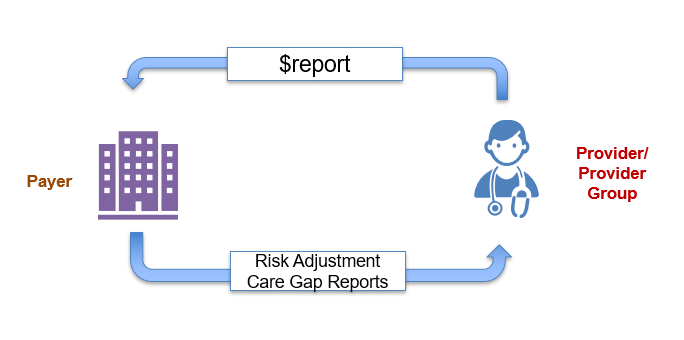
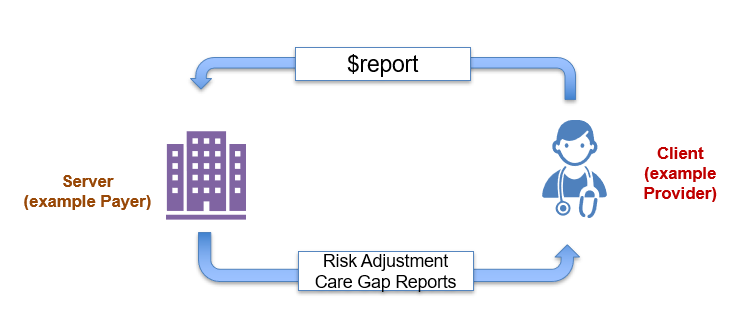
Updates to Guidance pagecontent/guidance.md

Changed region(s): [[0.0307, 0.3604, 0.7982, 0.9009], [0.1842, 0.1201, 0.7982, 0.3303], [0.6754, 0.3303, 0.9825, 0.6607]]

diff --git a/input/pagecontent/guidance.md b/input/pagecontent/guidance.md
@@ -6,25 +6,33 @@
 
 #### Introduction
 
-Risk Adjustment is a common tool used in value based care to insure that patients are receiving care around all their significant health impacting issues.  It also serves as a tool to insure payers are reimbursed appropriately for the care they are providing in a risk based contract.  While the payer may have information that a potential risk adjustment may exist, the provider must confirm the patient's diagnosis on a routine basis.  This implementation guide will define a report that all payers can use to communicate the potential for a risk adjustment(s) on specific patients that may need to be addressed.
+Without the use of this FHIR Implementation Guide, practitioners likely receive Risk Adjustment Coding Gaps information in many ways.  The intent of the Guidance in this Implementation Guide is to unify how payers create these reports. Standardizing the reporting structure should lessen the burden on the practitioners in processing the reports so they can more easily address the patient's care needs.  This structure also supports the payer sharing information that they have but the practitioner may not such as data from other practitioner's claims, lab results, filled prescriptions, etc.  
+
+While this scenario was identified as the most frequent use case, we recognize there are many other actors that interact as the creator of a Risk Adjustment Coding Gap Report and the receiver of those reports.  To avoid confusion in this implementation Guide, we will use the term server to refer to the creator of the report and client to refer to the requester of the report.
+
+This implementation guide will define a report that clients can request and can be used to address risk adjustment category(ies) on one or more specific patients.
 
 #### Preconditions and Assumptions
-- Payer and Provider have established a contract for medical services.
-- A risk adjustment model has been defined.
-- The payer has determined the risk codes and status based on the data they have and systems they used. This Implementation Guide DOES NOT define how a payer determines the Risk Adjustment codes shared on this report.
-- It is the responsibility of the payer to ensure that the data used in the report is present in a structured, retrievable form.
+- A contract for medical services exists between the server and the client requesting the report.
+- A risk adjustment model(s) has been defined.
+- The server organization has determined the risk codes and status based on the data they have and systems they use. This Implementation Guide DOES NOT define how a server determines the Risk Adjustment codes shared on this report.
+- The server and the client have agreed upon a process to identify specific patient(s) and exchange the Patient Resource's logical id on the server.
+- It is the responsibility of the server to ensure that the data used in the report is present in a structured, retrievable form.
 -  Although the exact mechanisms for securing these exchanges are not specified as part of this implementation guide:
-
     -  Exchanges are limited to mutually agreed upon (i.e., between the Producer and Consumer) patients list or population.
-
     -  Systems should use standard authentication and authorization approaches.  The [SMART App Launch] and [SMART backend services] authentication/authorization approach are recommended models.
- - Payer and provider have agreed upon a process to identify specific patient(s).
+
+### Risk Adjustment Reporting workflow
+
+The two actors in the Risk Adjustment Reporting workflow are the server which is who will be creating the report(such as the payer and the client which is the entity requesting the report (frequently the practitioner).  They server will receives the [$report] request from the client.  The server will then return a bundle that contains 1 to many Risk Adjustment Coding Gap Reports. If there are no Risk Adjustment Reports for the subject(s) submitted, an OperationOutcome will be returned.
+
+{% include img-portrait.html img="risk-adjustment-gaps-workflow.png" caption = "Figure 3-1 Risk Adjustment Reporting Workflow" %}
 
 
 ### Risk Adjustment Coding Gap Reports
 The Risk Adjustment Coding Gap Report is a profile of the FHIR MeasureReport resource.  It can be generated by an operation defined in this Implementation Guide, [$report].
 
-The operation, [$report], which allows return of a FHIR bundle based on the input parameters.  The parameters required are the start and end dates of the clinical evaluation period (link to glossary) and a subject.  The subject can be a single patient id as specified on the payer's system or a group of Patients (as specified in the [Patient Group Profile])
+The operation, [$report], which allows return of a FHIR bundle based on the input parameters.  The parameters required are the start and end dates of the [Clinical Evaluation Period] and a subject.  The subject can be a single patient id as specified on the server's system or a group of Patients (as specified in the [Patient Group Profile])
 
 The operation will return a bundle which contains one or more Risk Adjustment Coding Gap Report.  This report is a profile on a FHIR MeasureReport.  Each Risk Adjustment Coding Gap Report is for a single patient and a single Risk Adjustment Model.  This profile allows for communication of additional information that is not in the base MeasureReport resource.  This includes:
 - the pertinent Risk Adjustment code(s) such as an HCC
@@ -34,18 +42,12 @@ The operation will return a bundle which contains one or more Risk Adjustment Co
 - the evidence status dates
 - and the Clinical Data Collection Deadline
 
-Included with the Risk Adjustment Coding Gap Report is the ability to share the data the payer has on file as Supporting Evidence for the Risk Adjustment code on the report.  This is accomplished via the evaluatedResource element. The Resources specified here can include any of the US Core Resources and are expected to be things like encounters, lab results, medications, etc.  An extension (extension-groupReference) has been added to this element and  will indicate which Risk Adjustment Code(s) that a a specific Resource supports.  All Resources referenced by the evaluatedResource element SHALL be returned in the [$report] Bundle
+Included with the Risk Adjustment Coding Gap Report is the ability to share the data the server has on file as Supporting Evidence for the Risk Adjustment code on the report.  This is accomplished via the evaluatedResource element. The Resources specified here can include any of the US Core Resources and are expected to be things like encounters, lab results, medications, etc.  An extension (extension-groupReference) has been added to this element and  will indicate which Risk Adjustment Code(s) that a a specific Resource supports.  All Resources referenced by the evaluatedResource element SHALL be returned in the [$report] Bundle
 
 Multiple reports can be generated for a single patient if more than one Risk Adjustment Model applies.  Also if a group of patients are specified as an input to the operation, one Risk Adjustment Coding Gap Report will be returned for each patient for each Risk Adjustment Model that applies.  For example, if you submit a Patient Group as input to the [$report] and three patients are in the group where two Risk Adjustment Model applies to all three and all three have Risk Adjustment Codes that apply (1-many), you will get back six Risk Adjustment Coding Gap Reports.
 
 The	[Risk Adjustment Model Measure Profile] is used in the MeasureReport.measure.  The Measure Resource profiled here allows specification of a specific Risk Model in the Measure.identifier, the version Measure.version as well as the name in Measure.name and title, Measure.title.
 
-
-### Risk Adjustment Reporting workflow
-
-The two actors in the Risk Adjustment Reporting workflow are the payer and the provider.  They payer will have a server that receives the [$report] request from the payer.  The payer will then return a bundle that contains 1 to many Risk Adjustment Coding Gap Reports. If there are no Risk Adjustment Reports for the subject(s) submitted, an OperationOutcome will be returned.
-
-{% include img-portrait.html img="risk-adjustment-gaps-workflow.png" caption = "Figure 3-1 Risk Adjustment Reporting Workflow" %}
 
 ### Default Profiles
 
@@ -59,13 +61,11 @@ The following resources are used in the Gaps in Care Reporting Scenario:
 
 ### Risk Adjustment Coding Gaps Reporting
 
-Without the use of this FHIR Implementation Guide, providers likely receive Risk Adjustment Coding Gaps information in many ways.  The intent of the Guidance in this Implementation Guide is to unify how payers create these reports so there is less burden on the providers in addressing perceived gaps.  This structure also supports the payer sharing information that they have but the provider may not.
-
-Below is an example of how a provider might receive a Risk Adjustment Coding Gap Report today.  This is for Clinical Evaluation Period January 1st to December 31st of 2021.  The report was run on May 1st and shows 3 Hierarchical Condition Codes based on CMS HCC v24 risk model.  The first HCC was confirmed by a diagnosis on a claim from April 1, 2021. The second is a historic diagnosis of obesity from 2020 that has not been confirmed in 2021.  The last HCC is suspected because of lab results they payer has from December of 2020.
+Below is an example of how a requester might receive a Risk Adjustment Coding Gap Report today.  This is for Clinical Evaluation Period January 1st to December 31st of 2021.  The report was run on May 1st and shows 3 Hierarchical Condition Codes based on CMS HCC v24 risk model.  The first HCC was confirmed by a diagnosis on a claim from April 1, 2021. The second is a historic diagnosis of obesity from 2020 that has not been confirmed in 2021.  The last HCC is suspected because of lab results they server has from December of 2020.
 
 {% include img-portrait.html img="report-risk-adjustment.png" caption = "Figure 3-2 Risk Adjustment Coding Gap Report (non-FHIR)" %}
 
-Figure 3-3 provides a graphical view of how these resources are related to the report above.  The main resource is the [Risk Adjustment Coding Gap Report Profile].  This profile first references a [Risk Adjustment Model Measure Profile] which is how we indicate which risk model the report is based on.  The Patient(US Core Patient) as well as the Payer(US Core Organization) who generated the Risk Adjustment Coding Gap Report are referenced.  
+Figure 3-3 provides a graphical view of how these resources are related to the report above.  The main resource is the [Risk Adjustment Coding Gap Report Profile].  This profile first references a [Risk Adjustment Model Measure Profile] which is how we indicate which risk model the report is based on.  The Patient(US Core Patient) as well as the Organization(US Core Organization) that generated the Risk Adjustment Coding Gap Report are referenced.  
 
 Each Hierarchical Condition Code is represented by a Group within the report.  You will notice that each Group has supporting evidence of the Encounter.  Additionally, you will see resources on the right of the report that support the specific HCC code.  
 
@@ -80,21 +80,19 @@ The last group contains a suspected HCC code of 022.  The supporting evidence th
 
 ### Requesting Risk Adjustment Coding Gap reports
 
-To facilitate a provider requesting Risk Adjustment Coding Gap reports, an operation ([$report]) has been defined in this Implementation Guide.  The input parameters are a from/to date to align with the clinical evaluation period and a subject.  The subject can reference a Patient.id(/Patient/id123) or a reference to a Risk Adjustment [Patient Group Profile](Group/Gr345) as defined in this IG.  All three parameters are required.  The patient resource returned with the report must conform to the US Core Patient Profile.  Note that the reference is to the Patient logical id (Patient.id) on the Payer's server.  As noted above, it is a pre-assumption that getting the logical id for the patient has been done using a method agreed upon between the payer and provider.
+To facilitate a client requesting Risk Adjustment Coding Gap Reports, an operation ([$report]) has been defined in this Implementation Guide.  The input parameters are a from/to date to align with the clinical evaluation period and a subject.  The subject can reference a Patient.id(/Patient/id123) or a reference to a Risk Adjustment [Patient Group Profile](Group/Gr345) as defined in this IG.  All three parameters are required.  The patient resource returned with the report must conform to the US Core Patient Profile.  Note that the reference is to the Patient logical id (Patient.id) on the server.  As noted above, it is a pre-assumption that getting the logical id for the patient has been done using a method agreed upon between the organization acting as the server and organization acting as the client.
 
-The operation will return a bundle of they type collection which will include 1 or more Risk Adjustment Coding Gap Reports and all referenced resources.  For example, if a single patient has 2 Risk Adjustment Models that pertain to them, the bundle will contain two MeasureReport resources ([Risk Adjustment Coding Gap Report Profile]) and any other resources referenced by the two MeasureReport Resources, such as Patient, Organization (that generated the report, Conditions, Observations, Medications, Measure, etc.
+The operation will return a bundle of the bundle.type "collection" which will include 1 or more Risk Adjustment Coding Gap Reports and all referenced resources.  For example, if a single patient has 2 Risk Adjustment Models that pertain to them, the bundle will contain two MeasureReport resources ([Risk Adjustment Coding Gap Report Profile]) and any other resources referenced by the two MeasureReport Resources, such as Patient, Organization (that generated the report), Conditions, Observations, Medications, Measure, etc.
 
 {% include img-portrait.html img="risk-adjustment-coding-gap-report-single-patient.png" caption = "Figure 3-4 Risk Adjustment Reporting Workflow for a Single Patient" %}
 
-Example needed
-
 #### Construction of the Risk Adjustment Coding Gap Reports
 
-The Risk Adjustment Coding Gaps Report is built on a FHIR MeasureReport Resource.  This profile adds several new elements/extensions that apply only to Risk Adjustment Code Gap reporting.  The first, extension-clinicalDataCollectionDeadline is added to specify to the provider the deadline, last date, that a provider must submit data to the payer.  In the reporter element, an extension was added to allow for the reporter to be a group, extension-reporterGroup.
+The Risk Adjustment Coding Gaps Report is built on a FHIR MeasureReport Resource.  This profile adds several new elements/extensions that apply only to Risk Adjustment Code Gap reporting.  The first, extension-clinicalDataCollectionDeadline is added to specify to the report receiver/client the deadline, last date, that a client or the organization they represent must submit data to the server's organization.  In the reporter element, an extension was added to allow for the reporter to be a group, extension-reporterGroup.
 
-This profile more specifically defines the period start and end elements to be the Clinical Evaluation Period.  The date element is the date the report was generated.
+This profile more specifically defines the period.start and period.end elements to be the Clinical Evaluation Period.  The date element is the date the report was generated.
 
-Of particular note is the measure element which points to a Measure Resource specifically profiled for Risk Adjustment Coding Gaps, [Risk Adjustment Model Measure Profile]. In this profile, the identifier will point to a specific Risk Adjustment Model, like CMS-HCC.  There is an element for version number, such as 24 as well as a name and title.  The other elements in Measure are not currently used by this profile.
+Of particular note is the .measure element which points to a Measure Resource specifically profiled for Risk Adjustment Coding Gaps, [Risk Adjustment Model Measure Profile]. In this profile, the identifier will point to a specific Risk Adjustment Model, like CMS-HCC.  There is an element for version number, such as 24 as well as a name and title.  The other elements in Measure are not currently used by this profile.
 
 The group section of the report repeats for each Hierarchical Condition Code being reported.  To support,  the following new elements/extensions have been added.
 - extension-historicDiagnosis which allow the report to specify 0 to many historic diagnoses that rolls up to a specific risk code, such as HCC.
@@ -103,7 +101,7 @@ The group section of the report repeats for each Hierarchical Condition Code bei
 - extension-evidenceStatusDate which is the last change date of the evidence status.
 Each group also contains a code element.  This is a FHIR Codeable Concept that lets you specify the risk code, the coding system and a description.  For example, in HCC the code might be 022, the code system would be XXXXX and the description is Morbid Obesity.
 
-The evaluatedResource element in the report allows you to including supporting evidence by referencing other US Core Resources (such as lab results, encounters, and medication).  The evaluatedResource is not required and can repeat as often as necessary within the report.  Each evaluatedResource allows for you to indicate to which Group the supporting evidence applies.  This is done via an extension called, extension-groupReference.
+The evaluatedResource element in the report allows you to including supporting evidence by referencing other US Core Resources (such as US Core Laboratory Result Observation Profile, US Core Encounter Profile, and US Core Medication Profile).  The evaluatedResource is not required and can repeat as often as necessary within the report.  Each evaluatedResource allows for you to indicate to which Group the supporting evidence applies.  This is done via an extension called, extension-groupReference.
 
 #### Usage
 {:.no_toc}
@@ -132,5 +130,8 @@ Query Parameters:
 Currently, only *application/fhir+ndjson* is supported.
 
 <br />
+
+#### Attribution
+
 
 {% include link-list.md %}

diff --git a/input/includes/link-list.md b/input/includes/link-list.md
@@ -23,3 +23,4 @@
 [MeasureReport01: Risk Adjustment Coding Gap Report]: MeasureReport-ra-measurereport01.html
 [Measure01: Risk Adjustment Model CMS-HCC V24]: Measure-ra-model-example01.html
 [$report]:OperationDefinition-report.html
+[Clinical Evaluation Period]:glossary.html#glossary
